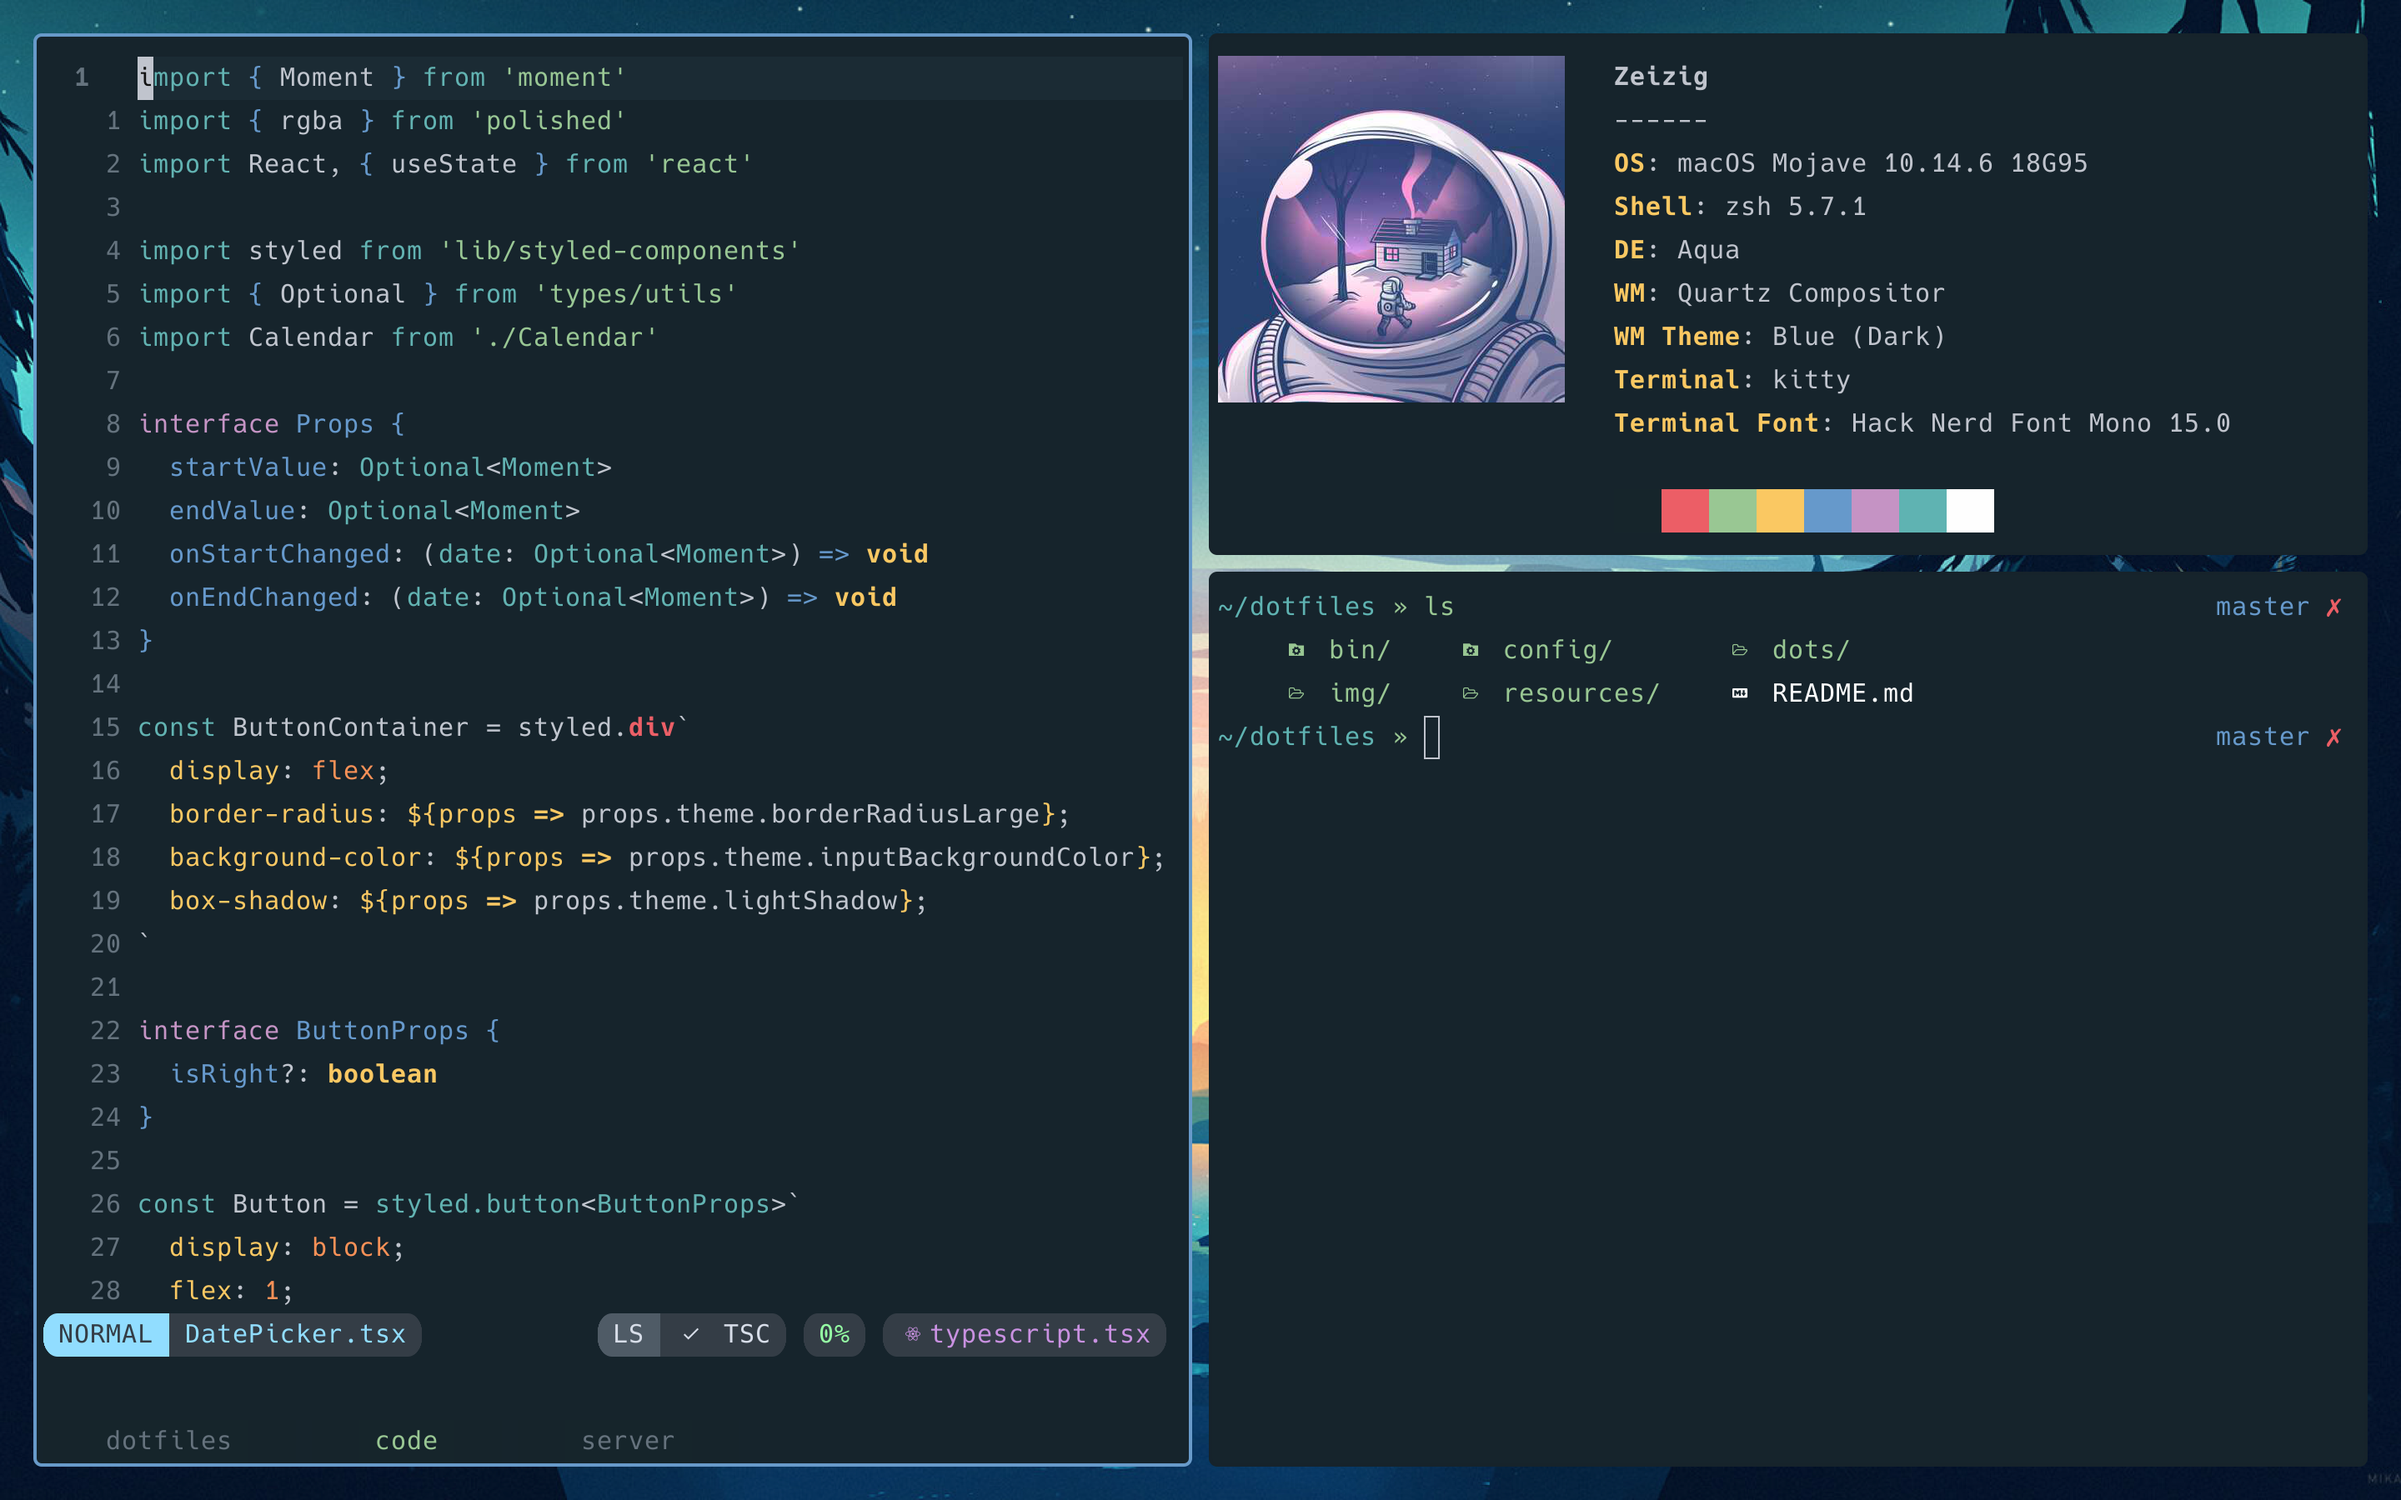
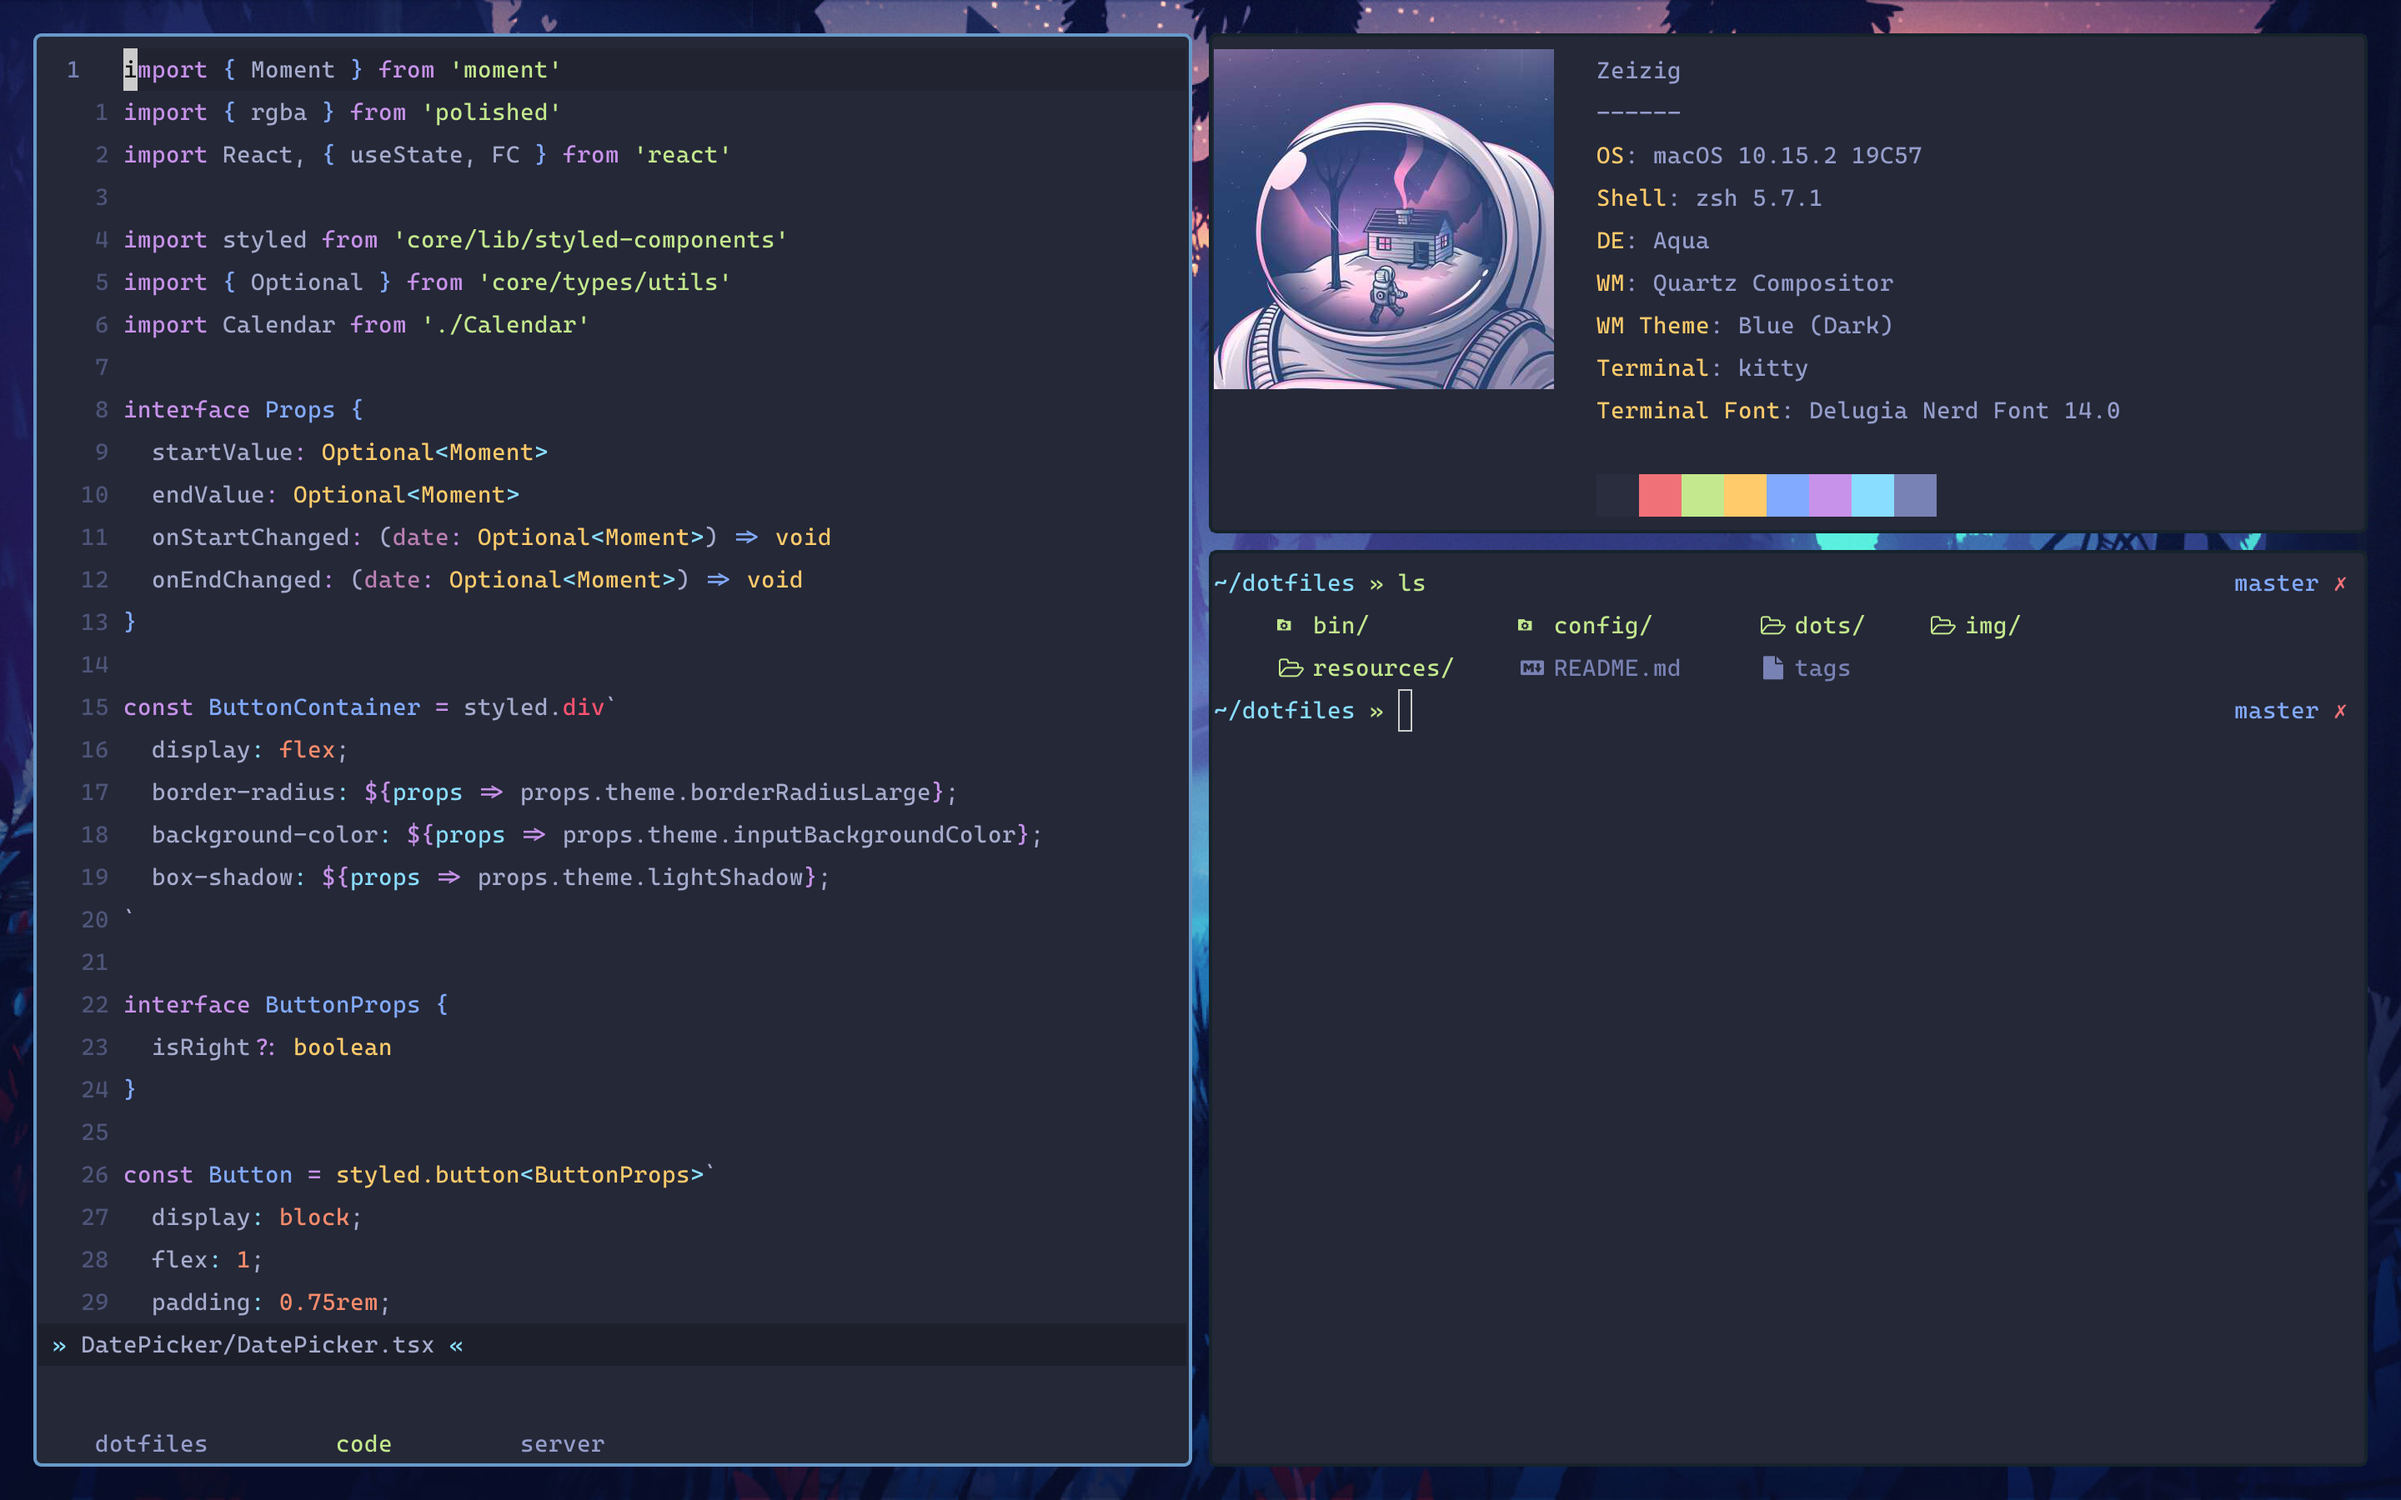
Update images in README

diff --git a/README.md b/README.md
@@ -6,8 +6,8 @@ Some of the configuration includes:
 
 * Editor - [neovim](https://neovim.io)
     * See `dots/vim/plugins.vim` for the used plugins
-    * Slightly modified [OceanicNext 
-        colorscheme](https://github.com/mhartington/oceanic-next)
+    * Slightly modified [Material Palenight 
+      colorscheme](https://github.com/kaicataldo/material.vim/)
 * Terminal emulator - [Kitty](https://sw.kovidgoyal.net/kitty)
 * Shell - [Zsh](https://www.zsh.org)
     * With [Prezto](https://github.com/sorin-ionescu/prezto)
@@ -17,8 +17,7 @@ Some of the configuration includes:
       [Rofi](https://github.com/davatorium/rofi)
 * `tmux` (I don't use it anymore but left the configuration since it might be 
     useful)
-* Wallpaper - https://mikaelgustafsson.artstation.com/projects/Y2Wew (I haven't 
-    updated the screenshots to this one yet)
+* Wallpaper - https://mikaelgustafsson.artstation.com/projects/nA9Lr
 
 
 ## Utilities
